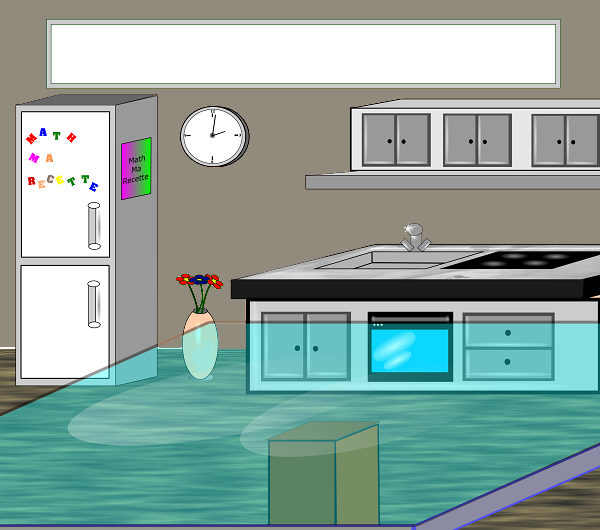
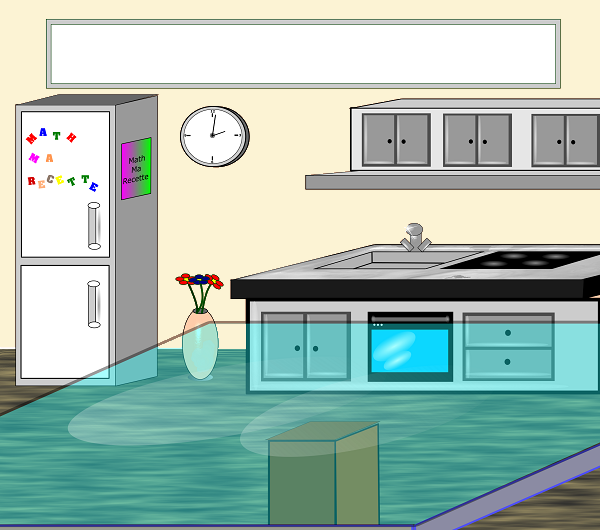
maj couleur

Changed region(s): [[0.0, 0.0, 1.0, 0.6642]]

diff --git a/src/mathmarecette/jeu/JPanelInfoBar.java b/src/mathmarecette/jeu/JPanelInfoBar.java
@@ -74,7 +74,7 @@ public class JPanelInfoBar extends JPanel
 	private void appearance()
 		{
 		labelTitre.setFont(new Font("Verdana", 1, 20));
-		setBackground(new Color(119,114,105));
+		setBackground(new Color(234,226,197));
 		setBorder(BorderFactory.createMatteBorder(0, 0, 1, 0, Color.BLACK));
 		}
 

diff --git a/src/mathmarecette/jeu/JPanelIngredients.java b/src/mathmarecette/jeu/JPanelIngredients.java
@@ -81,7 +81,7 @@ public class JPanelIngredients extends JPanel
 
 	private void appearance()
 		{
-		setBackground(new Color(119,114,105));
+		setBackground(new Color(216,209,182));
 		setBorder(BorderFactory.createMatteBorder(1, 0, 0, 0, Color.BLACK));
 		}
 
